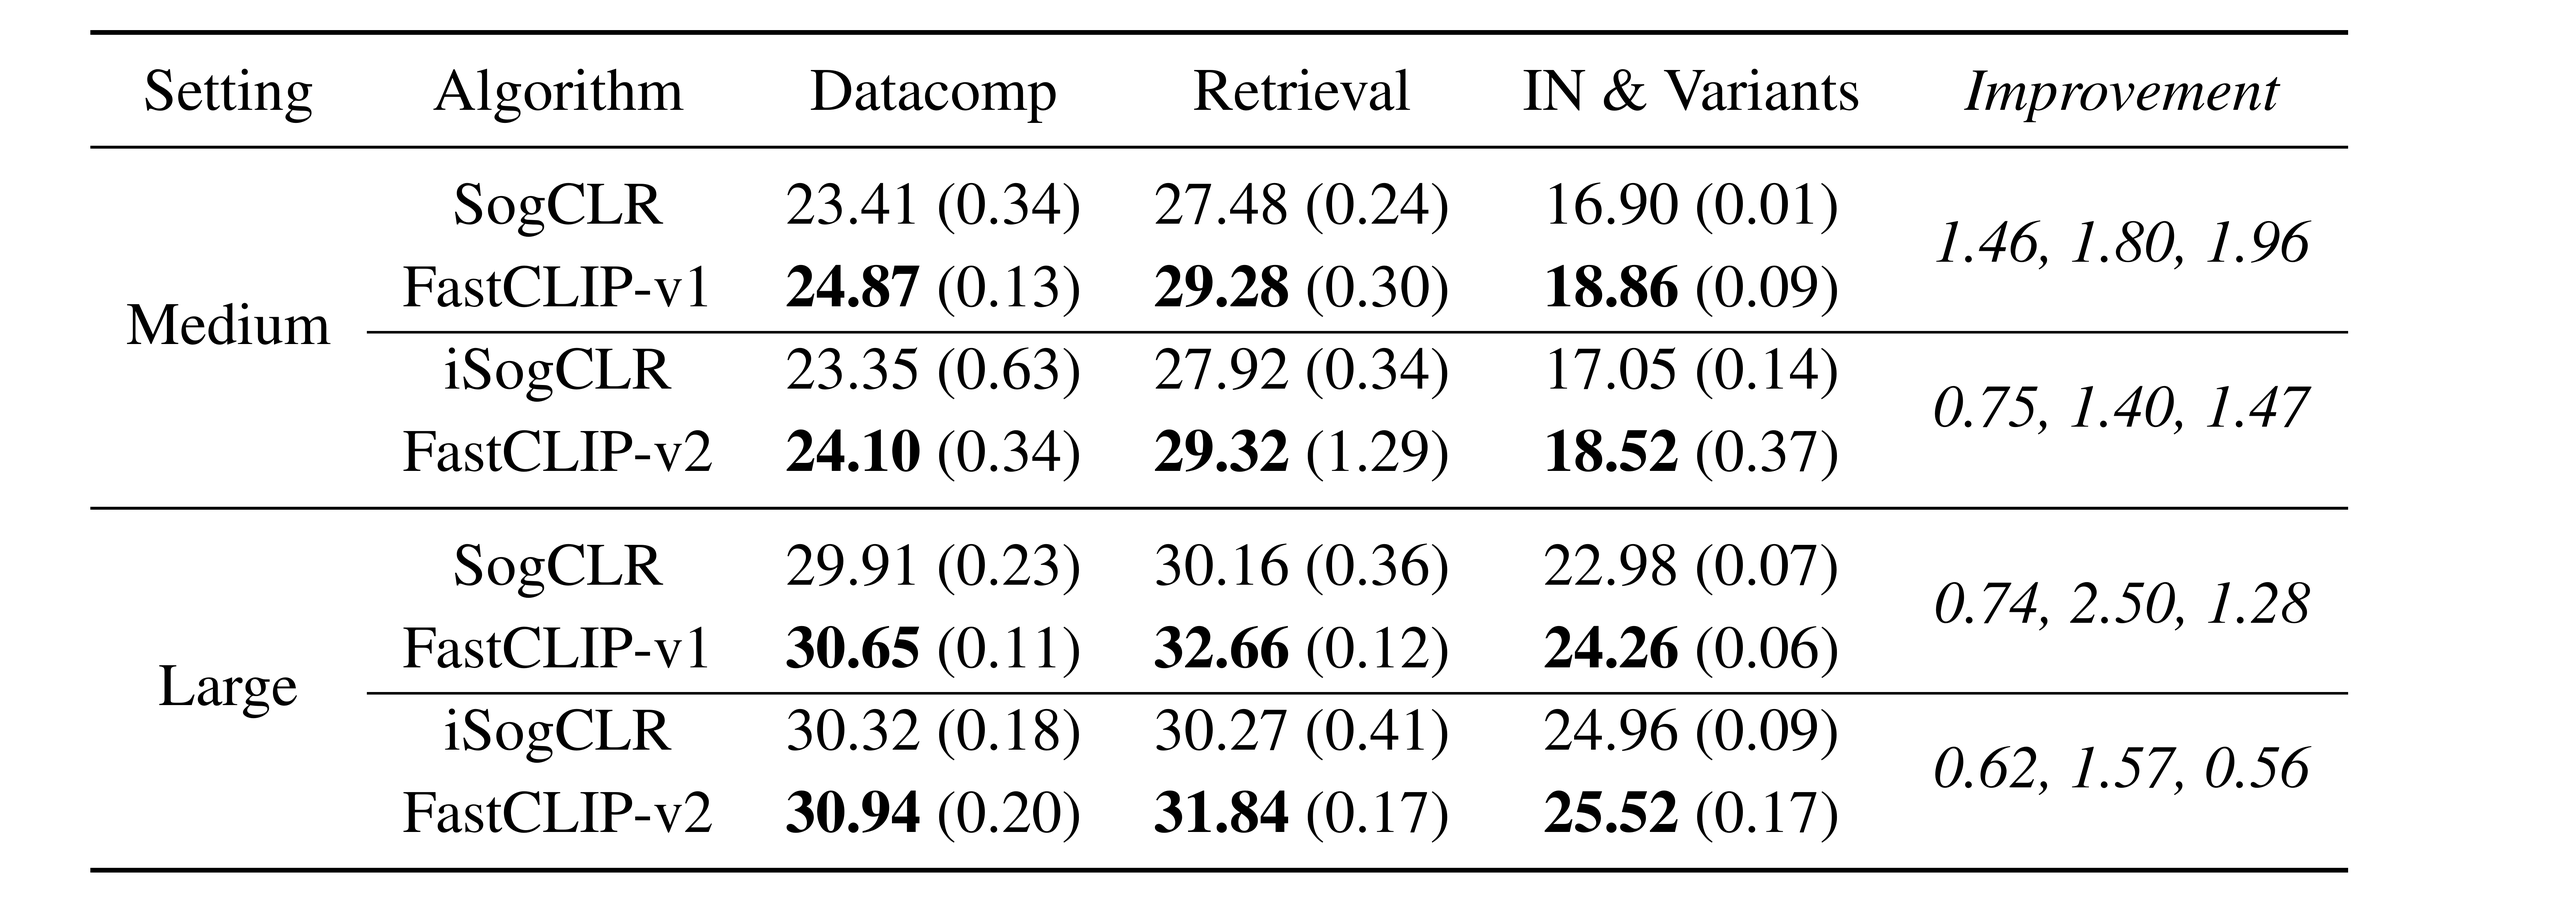
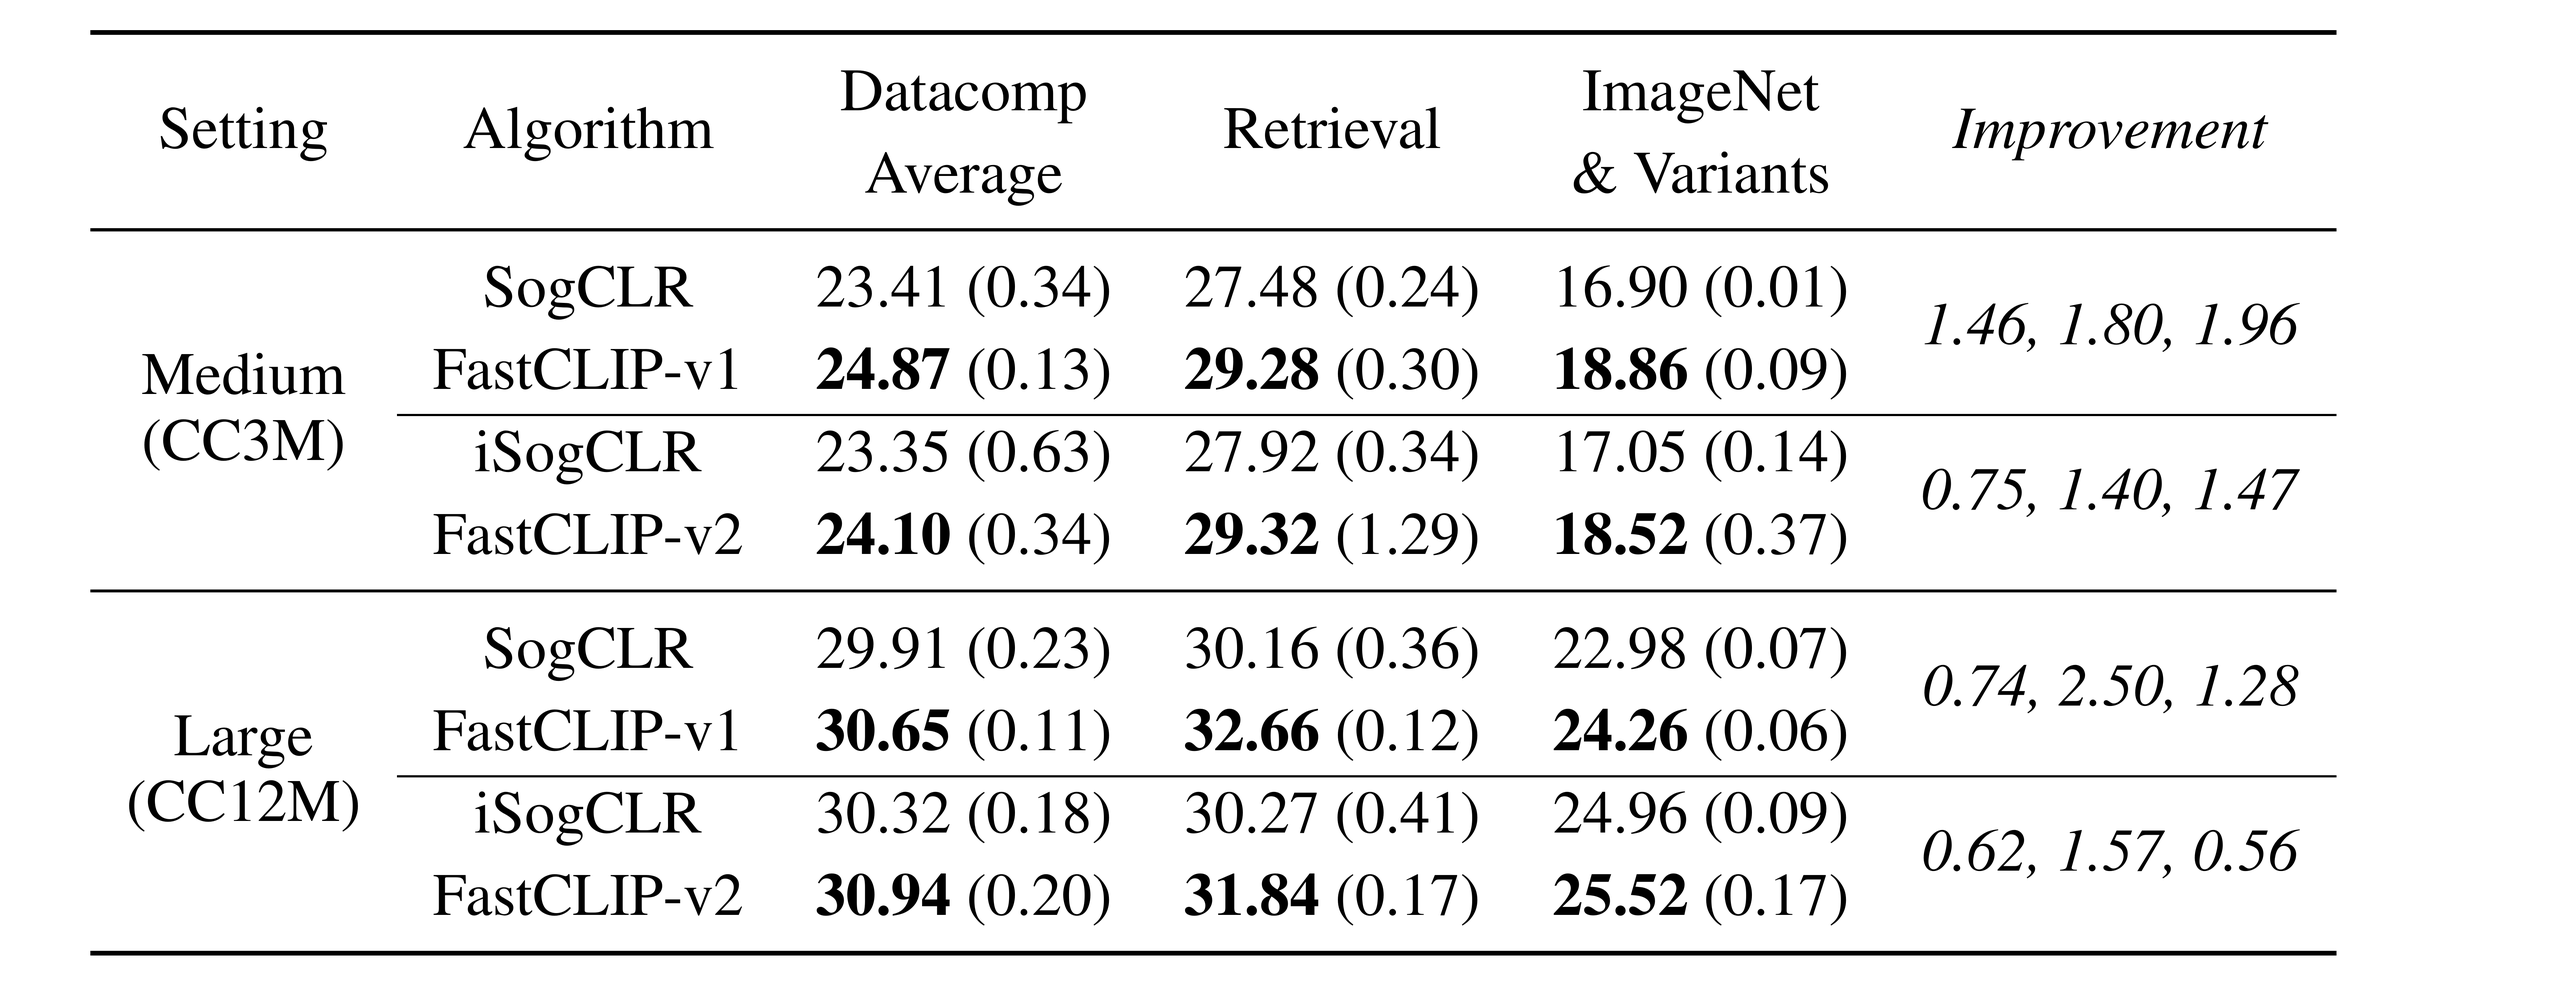
add highlight for readability

diff --git a/README.md b/README.md
@@ -43,19 +43,19 @@ Note that OpenCLIP uses the Mini-Batch Contrastive Loss (MBCL), which requires a
 
 ### Experiment Results
 
-Next we present the results of FastCLIP vs. OpenCLIP, SogCLR and iSogCLR. For more results please refer to our paper. The following table shows the results of FastCLIP-v1 (FastCLIP-v2, resp.) vs. SogCLR (iSogCLR, resp.) in the medium-scale (CC3M, batch size 1024) and large-scale (CC12M, batch size 2048) settings.
+Next we present the results of FastCLIP vs. OpenCLIP, SogCLR and iSogCLR. For more results please refer to our paper. The following table shows the results of FastCLIP-v1 (FastCLIP-v2, resp.) vs. SogCLR (iSogCLR, resp.) in the medium-scale (**CC3M**, batch size 1024) and large-scale (**CC12M**, batch size 2048) settings.
 
 <p align="center"><img alt="FastCLIP v1 (FastCLIP-v2, resp.) vs. SogCLR (iSogCLR, resp.)" src="./assets/gamma_datacomp.png" width="600"/></p>
 
-In the table, "Datacomp" denotes the average performance on the Datacomp benchmark, "IN & Variants" denote the average performance on ImageNet and its variants. The following figure is the average of ImageNet and its variants curves in the medium-scale and large-scale settings.
+The following figure presents the average of **ImageNet and variants** curves of OpenCLIP and FastCLIP-v3 in the medium-scale and large-scale settings.
 
 <p align="center"><img alt="OpenCLIP vs. FastCLIP-v3" src="./assets/openclip_fastclipv3_in_variants_curve.png" width="600"/></p>
 
-In the following figure, (a) and (b) are the average of ImageNet and its variants across different number of nodes in the medium-scale and large-scale settings, respectively. while (c) is the ImageNet Top1 accuracy in the xlarge-scale setting (LAION400M, batch size 5120).
+In the following figure, (a) and (b) are the average of **ImageNet and variants** of OpenCLIP and FastCLIP-v3 across different number of nodes in the medium-scale and large-scale settings, respectively. while (c) is the **ImageNet Top1** accuracy in the xlarge-scale setting (**LAION400M**, batch size 5120).
 
 <p align="center"><img alt="OpenCLIP vs. FastCLIP-v3, Scaling performance" src="./assets/openclip_fastclipv3_in_variants_nodes.png" width="600"/></p>
 
-The following figure shows the training time in the medium-scale and large-scale settings. Subfigures (a) and (b) plot the per-iteration training time. Subfigures (c) and (d) plot the communication time per iteration.
+The following figure shows the **training time** in the medium-scale and large-scale settings. Subfigures (a) and (b) plot the per-iteration training time. Subfigures (c) and (d) plot the communication time per iteration.
 
 <p align="center"><img alt="OpenCLIP vs. FastCLIP, Training time" src="./assets/openclip_fastclip_time_nodes.png" width="600"/></p>
 
